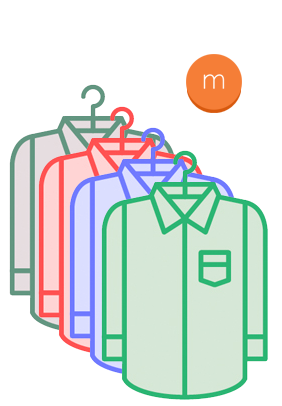
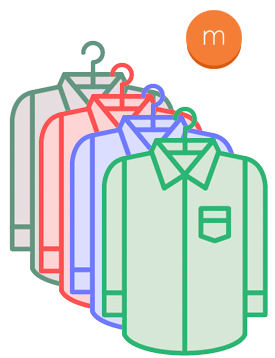
Explanation-3 layout

diff --git a/app/index.html b/app/index.html
@@ -36,10 +36,10 @@
 
         <div class="explanations explanation-1">
             <div class="container">
-                <div class="illustration-container">
+                <div class="left-container">
                     <img src="/images/phones.png" alt="Phones" />
                 </div>
-                <div class="explanation-container">
+                <div class="right-container">
                     <h2 data-i18n="explanations.explanation-1.title">Turn up your business by leveraging the latest location technology</h2>
                     <pre data-i18n="explanations.explanation-1.description">
                         Install motio sensors in your retail store to start giving personalized notifications, recommendations and benefits based on micro-location.
@@ -51,29 +51,65 @@
 
         <div class="explanations explanation-2">
             <div class="container">
-                <div class="explanation-container">
+                <div class="left-container">
                     <h2>Turn up your business by leveraging the latest location technology</h2>
                     <p>
                         Lorem ipsum dolor sit amet, consectetur adipisicing elit. Officiis, quidem consectetur voluptates ratione ea cum corporis aperiam numquam sit soluta. Eligendi, perferendis omnis porro voluptate maxime provident cumque! Necessitatibus, commodi?
                     </p>
                 </div>
-                <div class="illustration-container">
+                <div class="right-container">
+                    <img src="/images/hangers.png" alt="Hangers and Motio" />
                 </div>
             </div>
         </div>
 
         <div class="explanations explanation-3">
             <div class="container">
-                <div class="illustration-container">
-                </div>
-                <div class="explanation-container">
-                    <h2>Turn up your business by leveraging the latest location technology</h2>
+                <div class="left-container">
+                    <h2>Motio sensor</h2>
                     <p>
-                        Lorem ipsum dolor sit amet, consectetur adipisicing elit. Officiis, quidem consectetur voluptates ratione ea cum corporis aperiam numquam sit soluta. Eligendi, perferendis omnis porro voluptate maxime provident cumque! Necessitatibus, commodi?
-                        Lorem ipsum dolor sit amet, consectetur adipisicing elit. Sed, quas aliquam beatae fugiat praesentium quis hic tempora esse saepe consequuntur tempore eum optio nobis officiis odit voluptates quo sunt perspiciatis.
-                        Lorem ipsum dolor sit amet, consectetur adipisicing elit. Natus, enim, sapiente, recusandae neque consequatur suscipit hic animi molestias expedita facilis sit alias dolorum odio adipisci impedit aperiam dolor laudantium a!
-                        Lorem ipsum dolor sit amet, consectetur adipisicing elit. Sed, blanditiis aliquam dolorum culpa numquam veniam ipsum nemo quos quam! Voluptates, dolores impedit nobis tempore asperiores reiciendis fuga explicabo. Perferendis, magnam.
+                        Lorem ipsum dolor sit amet, consectetur adipisicing elit. Sapiente, porro ab iusto ratione perferendis ut nesciunt.
                     </p>
+                    <img class="motio-sensor" src="/images/motio-device.png" alt="Motio device" />
+                </div>
+                <div class="right-container">
+                    <img class="iphone" src="/images/iphone-flat.png" alt="Iphone" />
+                    <div class="clearfix"></div>
+                    <div class="iphone-description">
+                        <h2>Motio SDK</h2>
+                        <p>
+                            Lorem ipsum dolor sit amet, consectetur adipisicing elit. Dolorem, explicabo, aliquam sapiente nemo dignissimos.
+                        </p>
+                    </div>
+                </div>
+            </div>
+        </div>
+
+        <div class="explanations explanation-4">
+            <div class="container">
+                <div class="left-container">
+                </div>
+                <div class="right-container">
+                    <h2>Contact us | Request a demo</h2>
+                    <form role="form">
+                        <div class="form-group">
+                            <label for="name">Fullname</label>
+                            <input class="form-control" type="text">
+                        </div>
+                        <div class="form-group">
+                            <label for="name">Email</label>
+                            <input class="form-control" type="email">
+                        </div>
+                        <div class="form-group">
+                            <label for="name">Company</label>
+                            <input class="form-control" type="text">
+                        </div>
+                        <div class="form-group">
+                            <label for="name">Tell us about your idea</label>
+                            <textarea rows="5" class="form-control"></textarea>
+                        </div>
+                        <button class="btn btn-motio pull-right">Send</button>
+                    </form>
                 </div>
             </div>
         </div>

diff --git a/app/styles/template.scss b/app/styles/template.scss
@@ -38,13 +38,21 @@ p, pre {
   }
 }
 
-a.btn-link {
+form {
+  label {
+    @include default-font-normal;
+    font-size: 16px;
+  }
+}
+
+a.btn-link, button.btn-motio {
   display: inline-block;
   background: $orange;
   color: #fff;
   padding: 10px 15px;
   font-size: 18px;
   text-decoration: none !important;
+  @include border-radius(0);
   @include default-font-bold;
   @include transition(background 0.5s linear);
 
@@ -88,19 +96,13 @@ a.btn-link {
 .explanations {
   padding:30px 0;
 
-  .illustration-container {
-    @include make-md-column(5);
-
-    img {
-      padding: 0 5px;
-    }
-
+  .left-container {
+    @include make-md-column(6);
   }
 
-  .explanation-container {
-    @include make-md-column(7);
+  .right-container {
+    @include make-md-column(6);
     color: #fff;
-    padding: 3% 3%;
 
     h2 {
       margin: 5px 0 8px 0;
@@ -108,7 +110,19 @@ a.btn-link {
   }
 
   &.explanation-1 {
-    .explanation-container {
+    .left-container {
+      @include make-md-column(5);
+      text-align: center;
+
+      @media (max-width: $screen-md-min) {
+        img {
+          height: 250px;
+        }
+      }
+    }
+    
+    .right-container {
+      @include make-md-column(7);
       @media (min-width: $screen-md-min) {
         padding-top: 90px;
       }
@@ -118,21 +132,20 @@ a.btn-link {
         float: right;
       }
     }
-  
-    .illustration-container {
-      text-align: center;
-
-      @media (max-width: $screen-md-min) {
-        img {
-          height: 250px;
-        }
-      }
-    }
   }
 
   &.explanation-2 {
     background: #f5f5f5;
-    padding: 150px 0;
+    padding: 85px 0; 
+
+    .left-container {
+      @include make-md-column(7);
+    }
+
+    .right-container {
+      @include make-md-column(5);
+      text-align: center;
+    }
 
     h2, p, pre {
       color: #555 !important;
@@ -140,8 +153,38 @@ a.btn-link {
   }
 
   &.explanation-3 {
-    background: url(/images/store.jpg) no-repeat center center;
+    background: url(/images/store.png) no-repeat center center;
     @include background-size(cover);
+    padding: 95px 0 40px 0;
+
+    .left-container {
+      @include make-md-column(6);
+      text-align: left;
+
+      .motio-sensor {
+        float:right;
+        margin-top: 40px;
+        margin-right:20px;
+      }
+
+    }
+
+    .right-container {
+      @include make-md-column(6);
+      text-align: right;
+
+      .iphone {
+        float:left;
+        margin-left:20px;
+      }
+
+      .iphone-description {
+        position: relative;
+        top: -45px;
+      }
+
+    }
+
   }
 
 }
